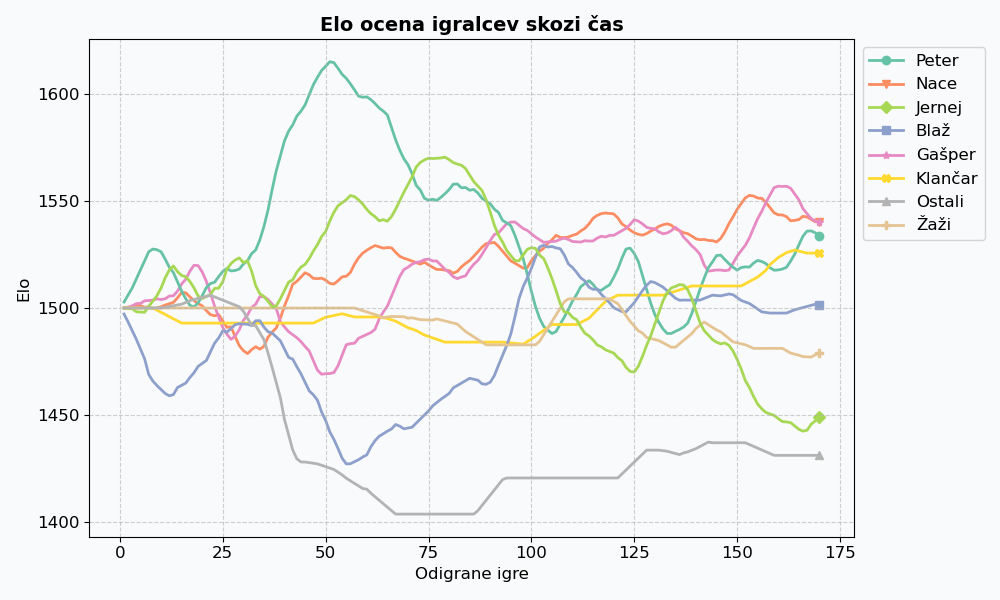
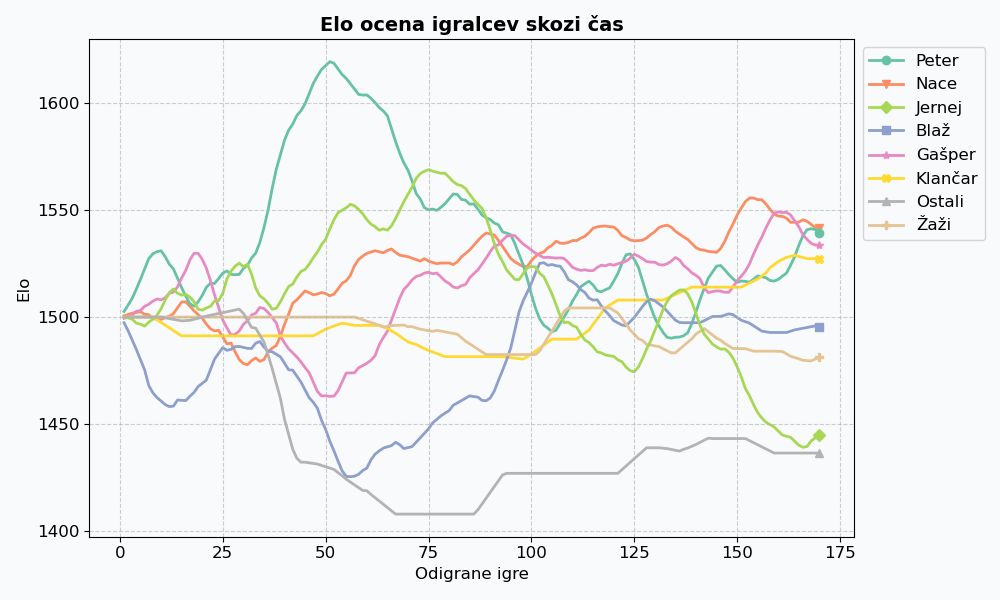
included point difference

diff --git a/projects/tarok/ranking.py b/projects/tarok/ranking.py
@@ -3,15 +3,17 @@ import pandas as pd
 
 
 def multiplayer_elo(
-    rank_df, points_df, number_of_games, K=32, tau=128, initial_elo=1500
+    rank_df, points_df, number_of_games, tau=256, initial_elo=1500, beta=1.0
 ):
     """
     Multiplayer Elo with logistic point-difference outcomes.
 
     rank_df   : DataFrame with ranks (1=best, 4=worst, NaN if not played)
     points_df : DataFrame with point scores (same shape as rank_df)
-    K         : Elo update factor
+    number_of_games : list with number of games played in each round
     tau       : score difference scale (larger = softer)
+    initial_elo : starting Elo rating for all players
+    beta      : placement difference weight
     """
 
     players = rank_df.columns
@@ -23,9 +25,10 @@ def multiplayer_elo(
 
         # Active players
         active = rank_row.dropna().index
-        scores = points_df.loc[idx, active]
+        ranks = rank_row.loc[active]
+        points = points_df.loc[idx, active]
 
-        # Expected & actual scores
+        # Expected and actual scores
         actual = {}
         expected = {}
 
@@ -40,11 +43,17 @@ def multiplayer_elo(
 
                 Rj = elo[j]
 
-                # Logistic actual outcome from points
-                d = scores[i] - scores[j]
-                a_ij = 1.0 / (1.0 + np.exp(-d / tau))
+                # Point difference
+                d = points[i] - points[j]
 
-                # Elo expected outcome
+                # Placement difference (positive if i placed better)
+                dr = ranks[j] - ranks[i]
+
+                # Actual outcome (soft win)
+                x = d / tau + beta * dr
+                a_ij = 1.0 / (1.0 + np.exp(-x))
+
+                # Expected outcome (Elo)
                 e_ij = 1.0 / (1.0 + 10 ** ((Rj - Ri) / 400))
 
                 ai_sum += a_ij
@@ -54,9 +63,8 @@ def multiplayer_elo(
             expected[i] = ei_sum / (len(active) - 1)
 
         # Update Elo
-        K_multiplier = number_of_games[idx] / 30
         for i in active:
-            new_elo[i] += K * K_multiplier * (actual[i] - expected[i])
+            new_elo[i] += number_of_games[idx] * (actual[i] - expected[i])
 
         elo = new_elo
         elo_history.append(elo.copy())
